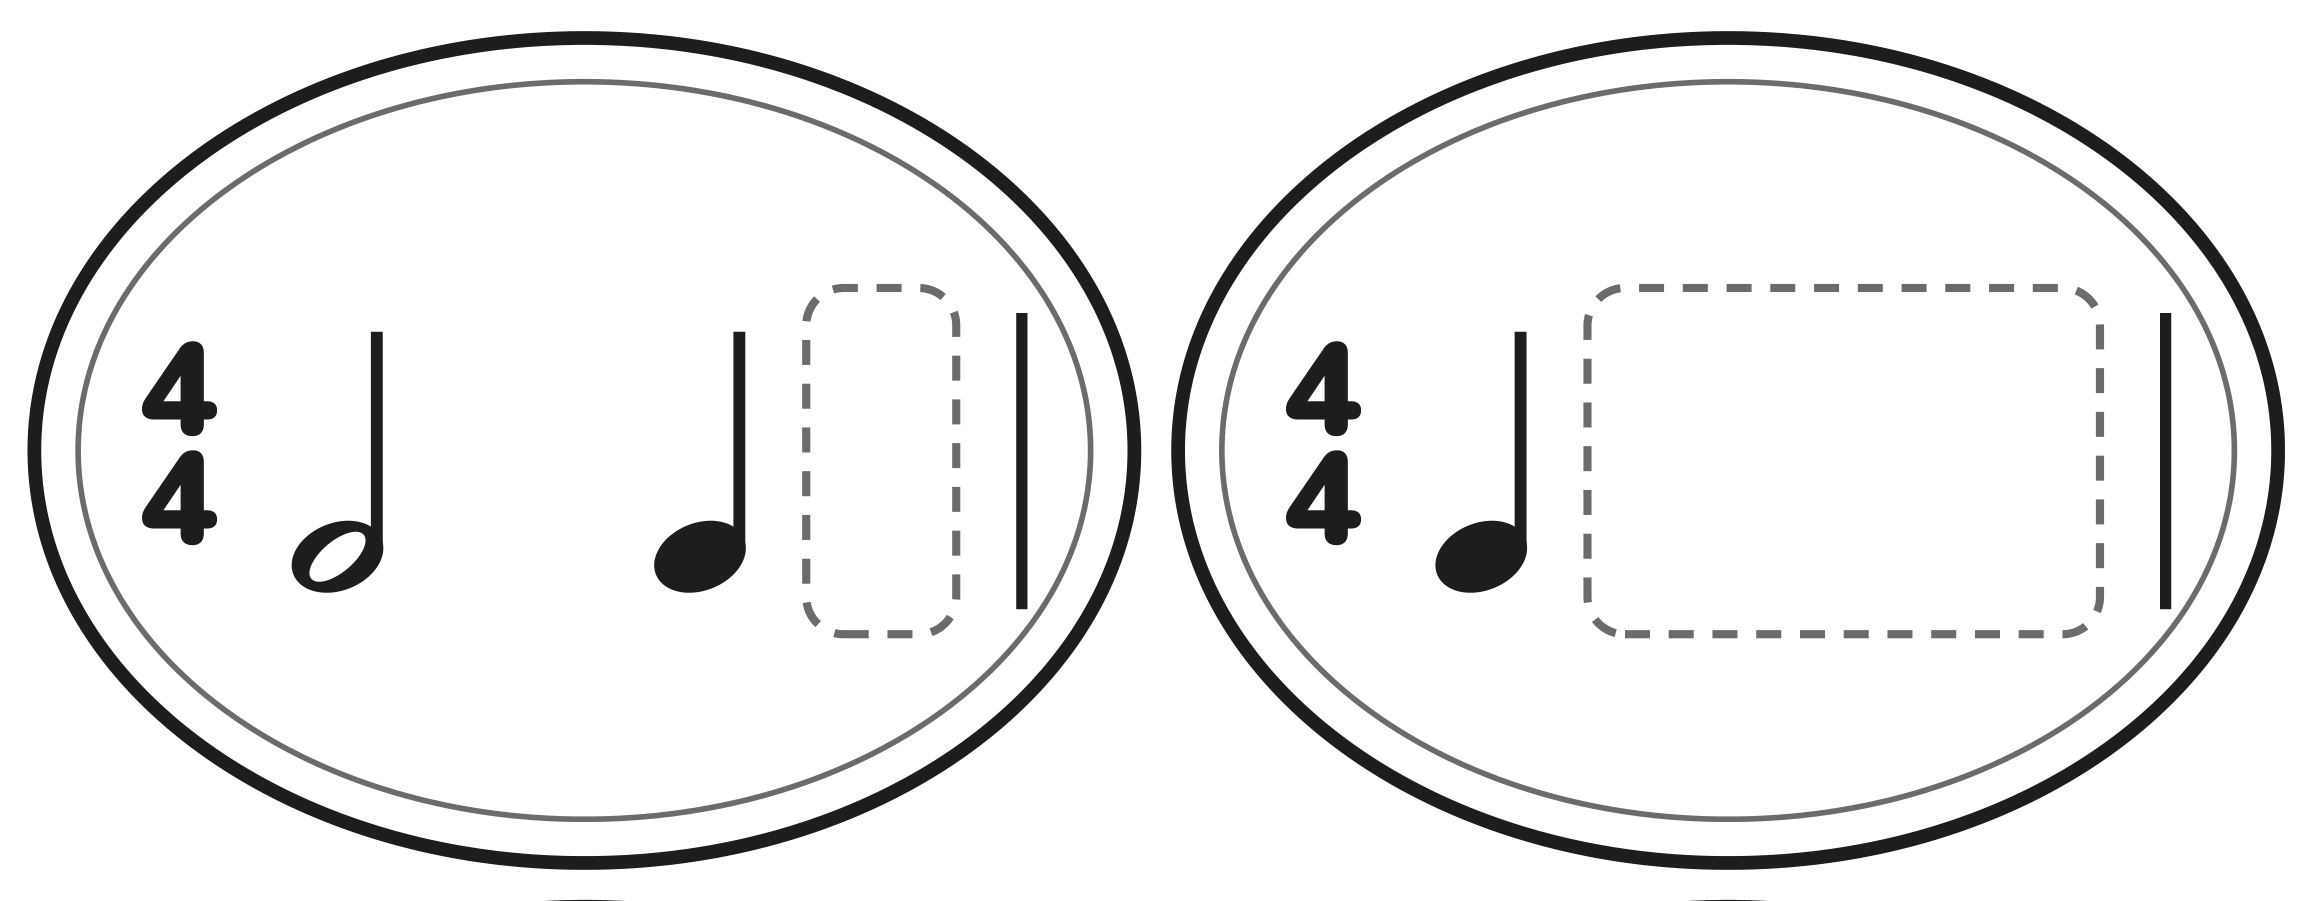
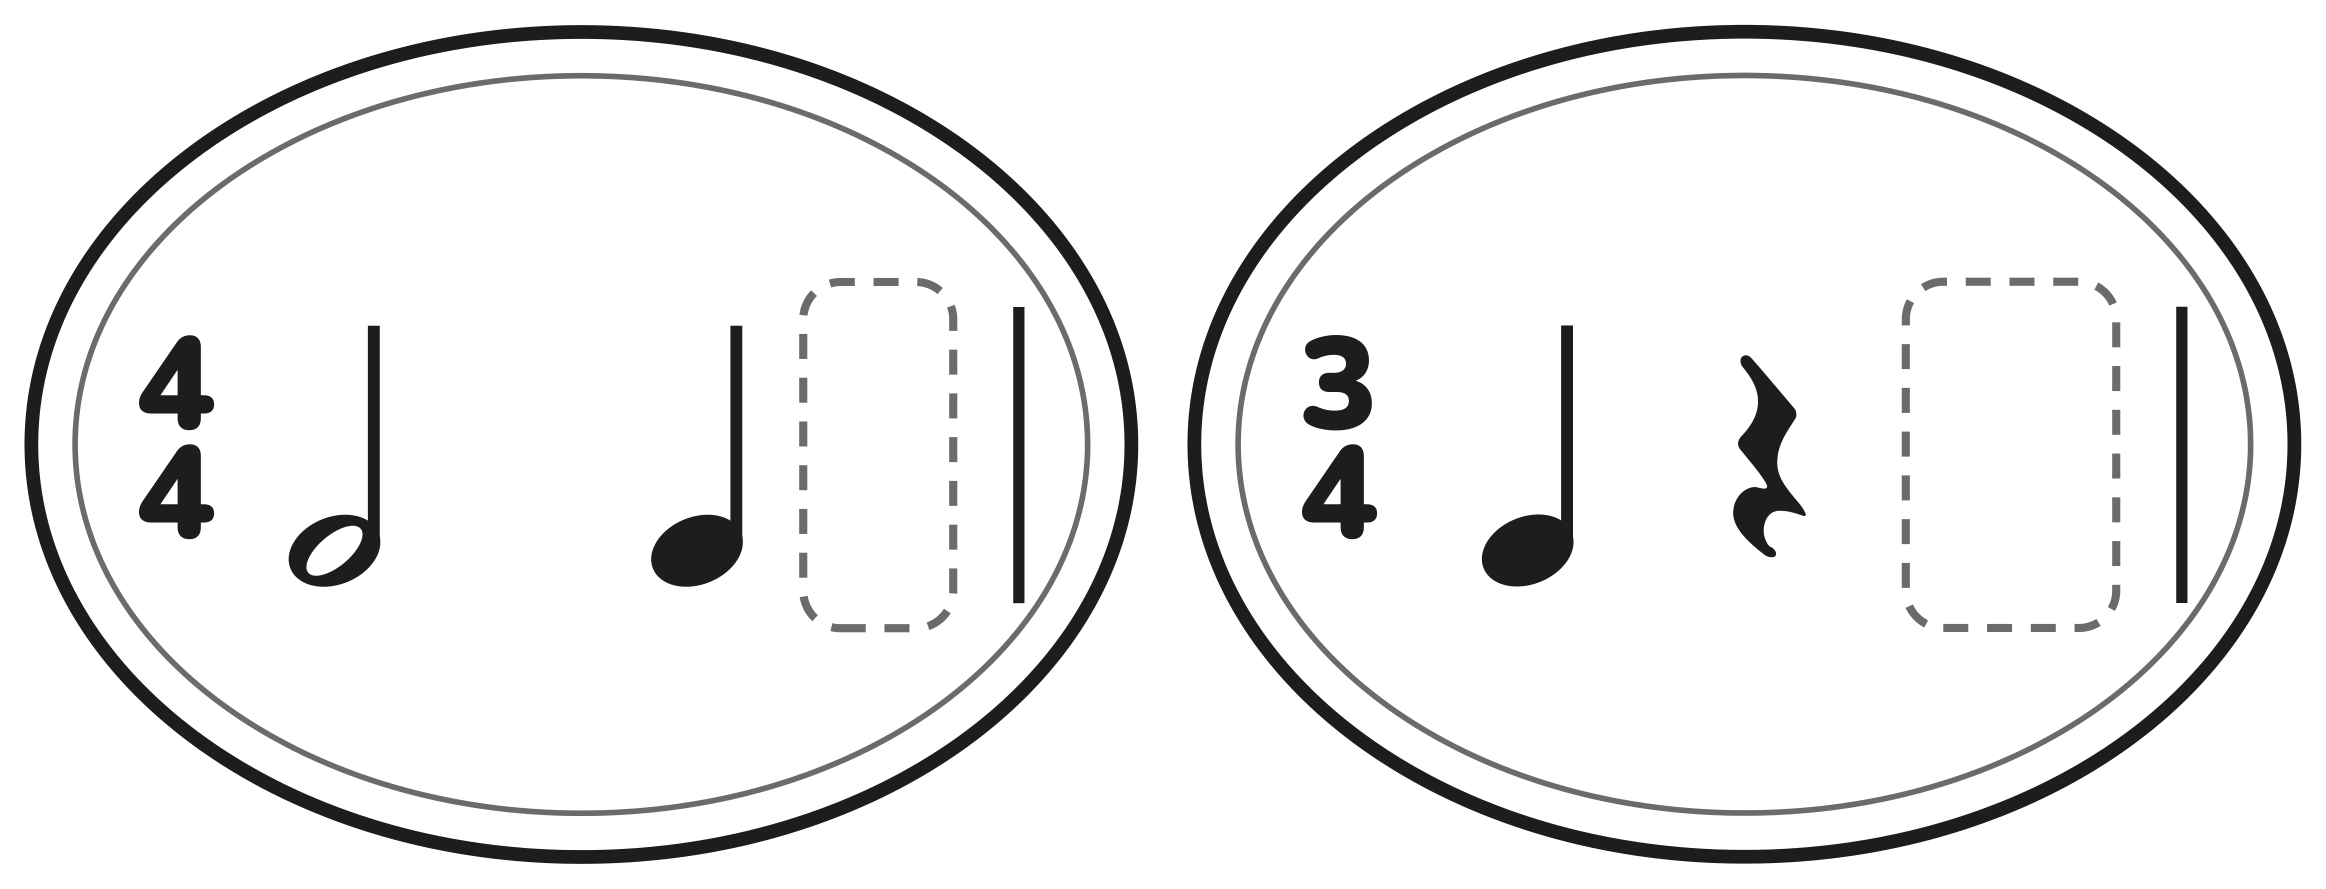
Missing Beats Instagram card: a 4/4 plate beside a 3/4 plate

diff --git a/tools/ig-card-bees-friendsgiving-missing-beats.html b/tools/ig-card-bees-friendsgiving-missing-beats.html
@@ -15,8 +15,8 @@
 
   Copied from tools/ig-card-bees-friendsgiving.html, so the two Friendsgiving
   posts match: her autumn hillside as the ground (the cleared copy, without
-  the foreground leaves), headline on top, two plates zoomed from the white
-  4/4 page behind, the color 4/4 sheet in front on a white mat.
+  the foreground leaves), headline on top, a 4/4 plate and a 3/4 plate zoomed from the
+  white pages behind (her ask), the color 4/4 sheet in front on a white mat.
 -->
 <link rel="preconnect" href="https://fonts.googleapis.com" />
 <link rel="preconnect" href="https://fonts.gstatic.com" crossorigin />
@@ -86,7 +86,7 @@
     box-shadow: 0 18px 40px rgba(31,33,28,.32);
   }
 
-  /* Behind the sheet: two plates cut from the white page and blown up, so
+  /* Behind the sheet: a 4/4 and a 3/4 plate cut from the white pages and blown up, so
      the rhythms read at feed size. */
   .stack .sheet-back {
     width: 800px;
